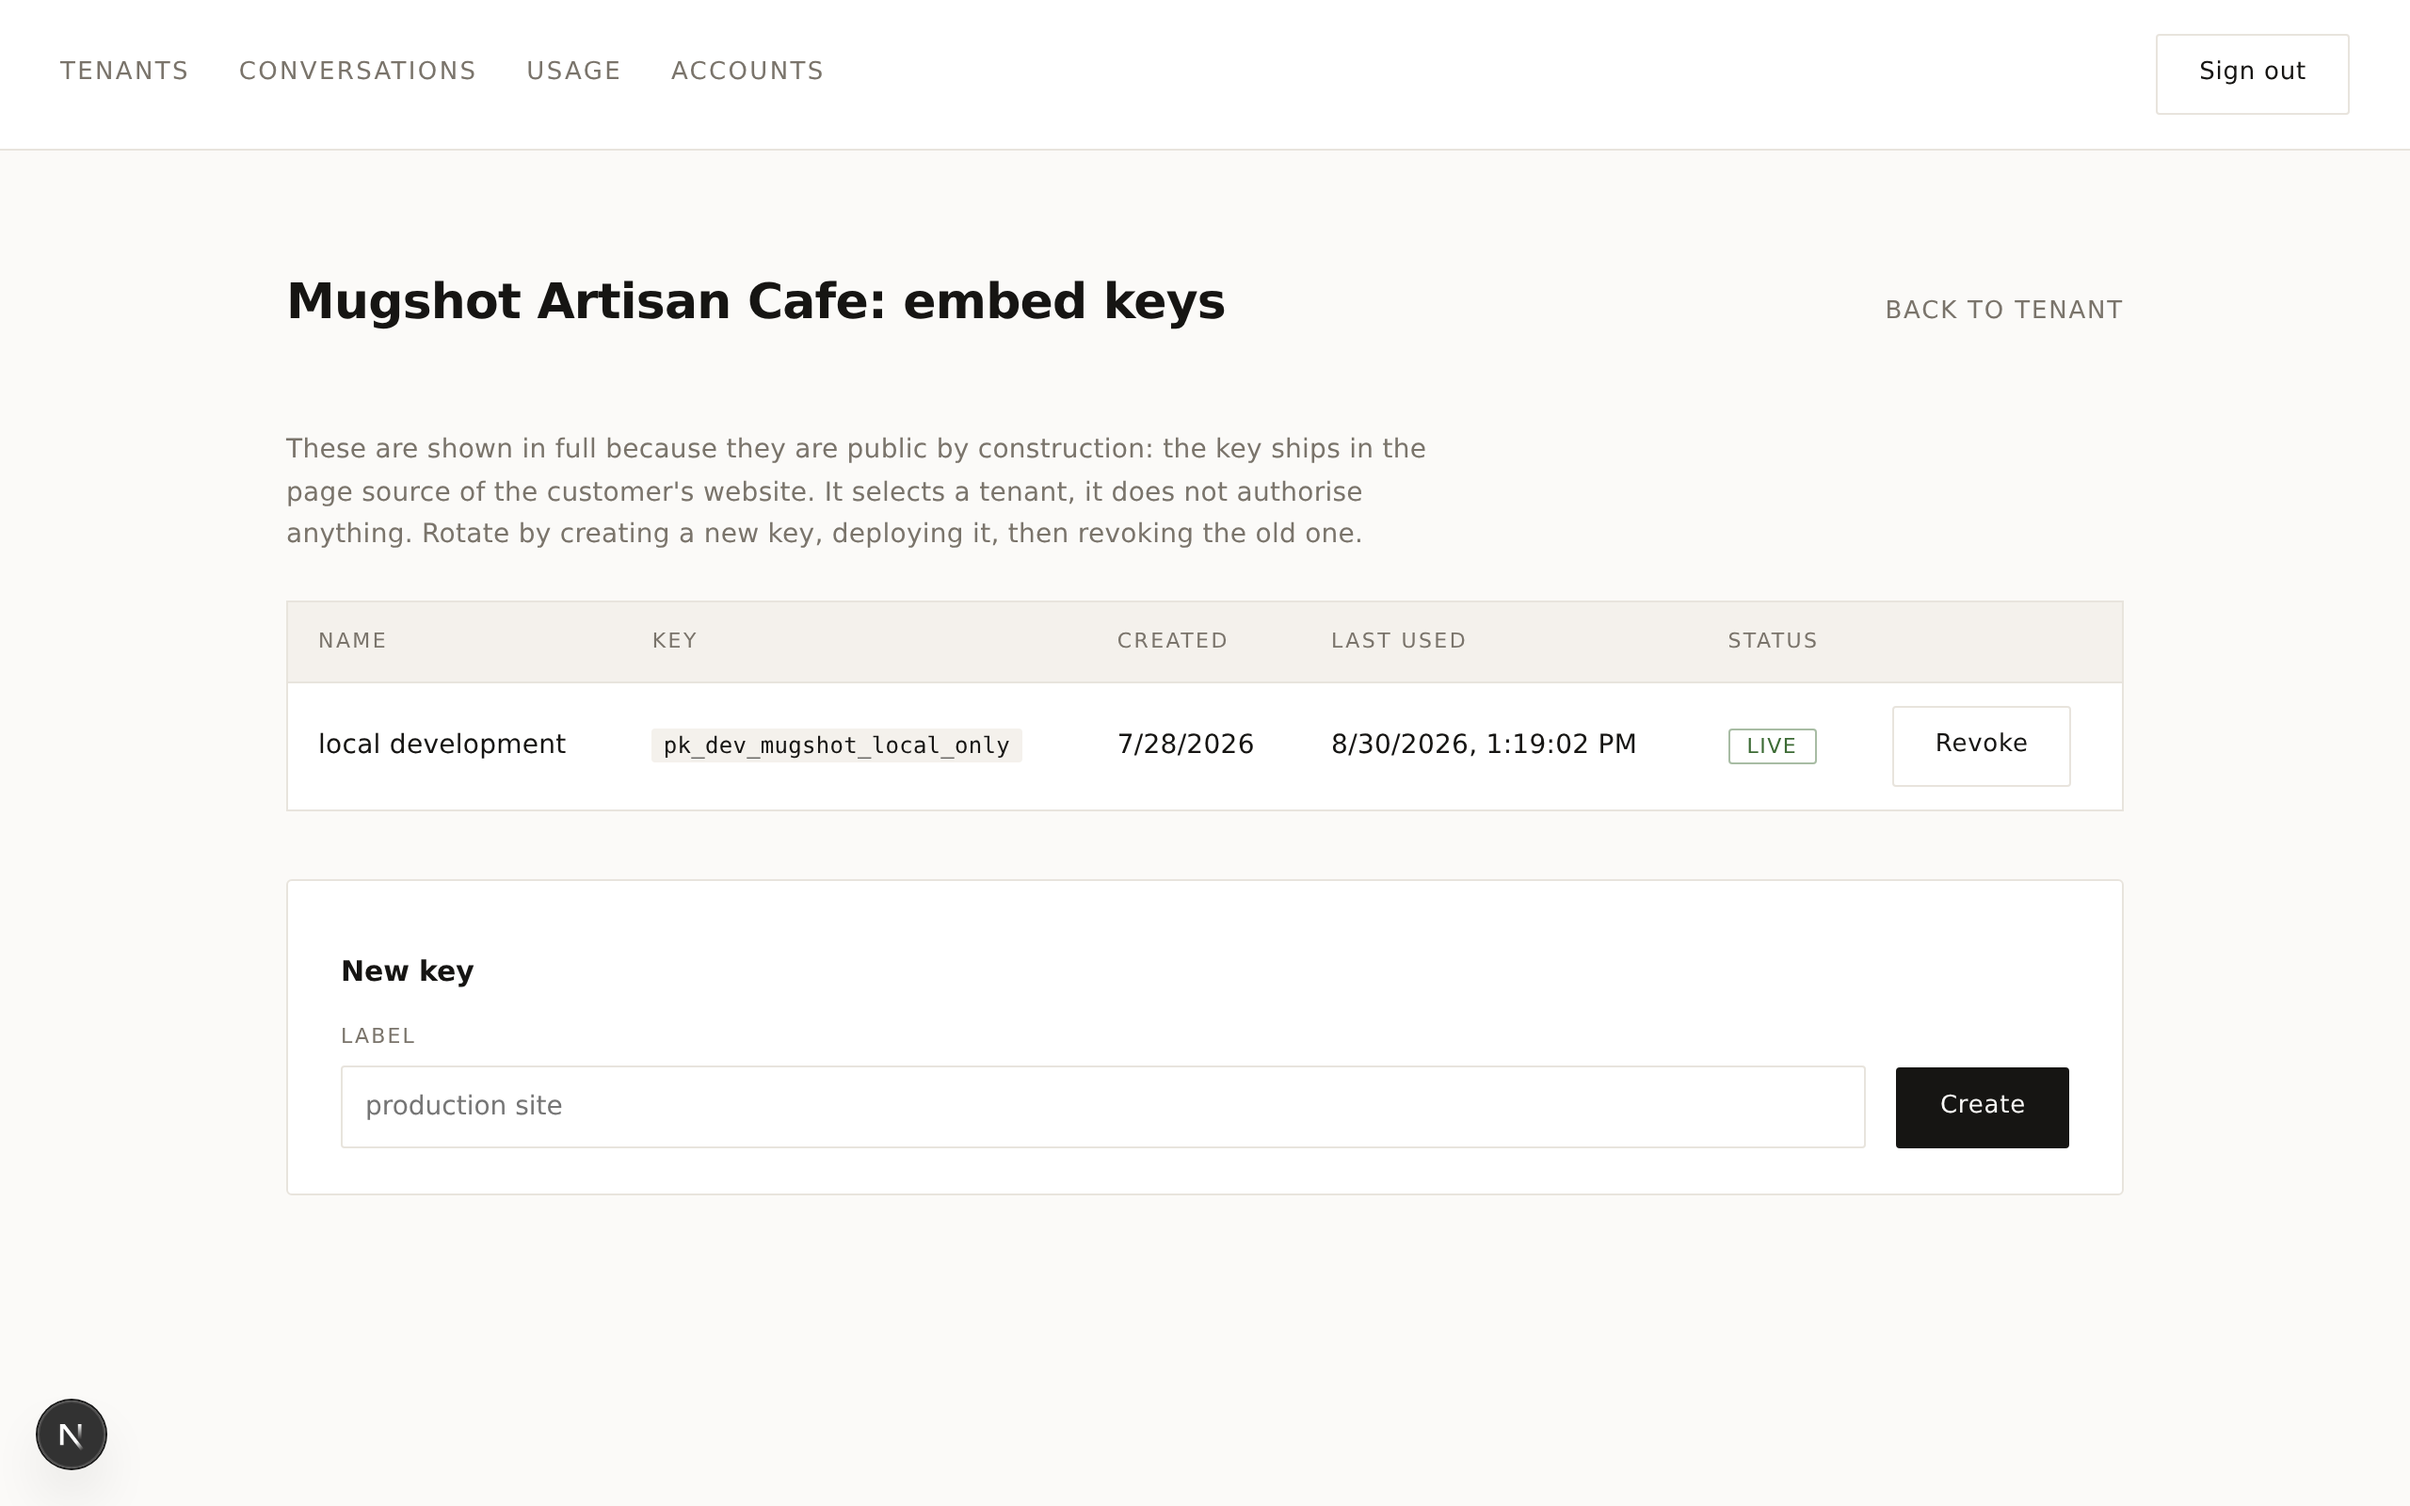
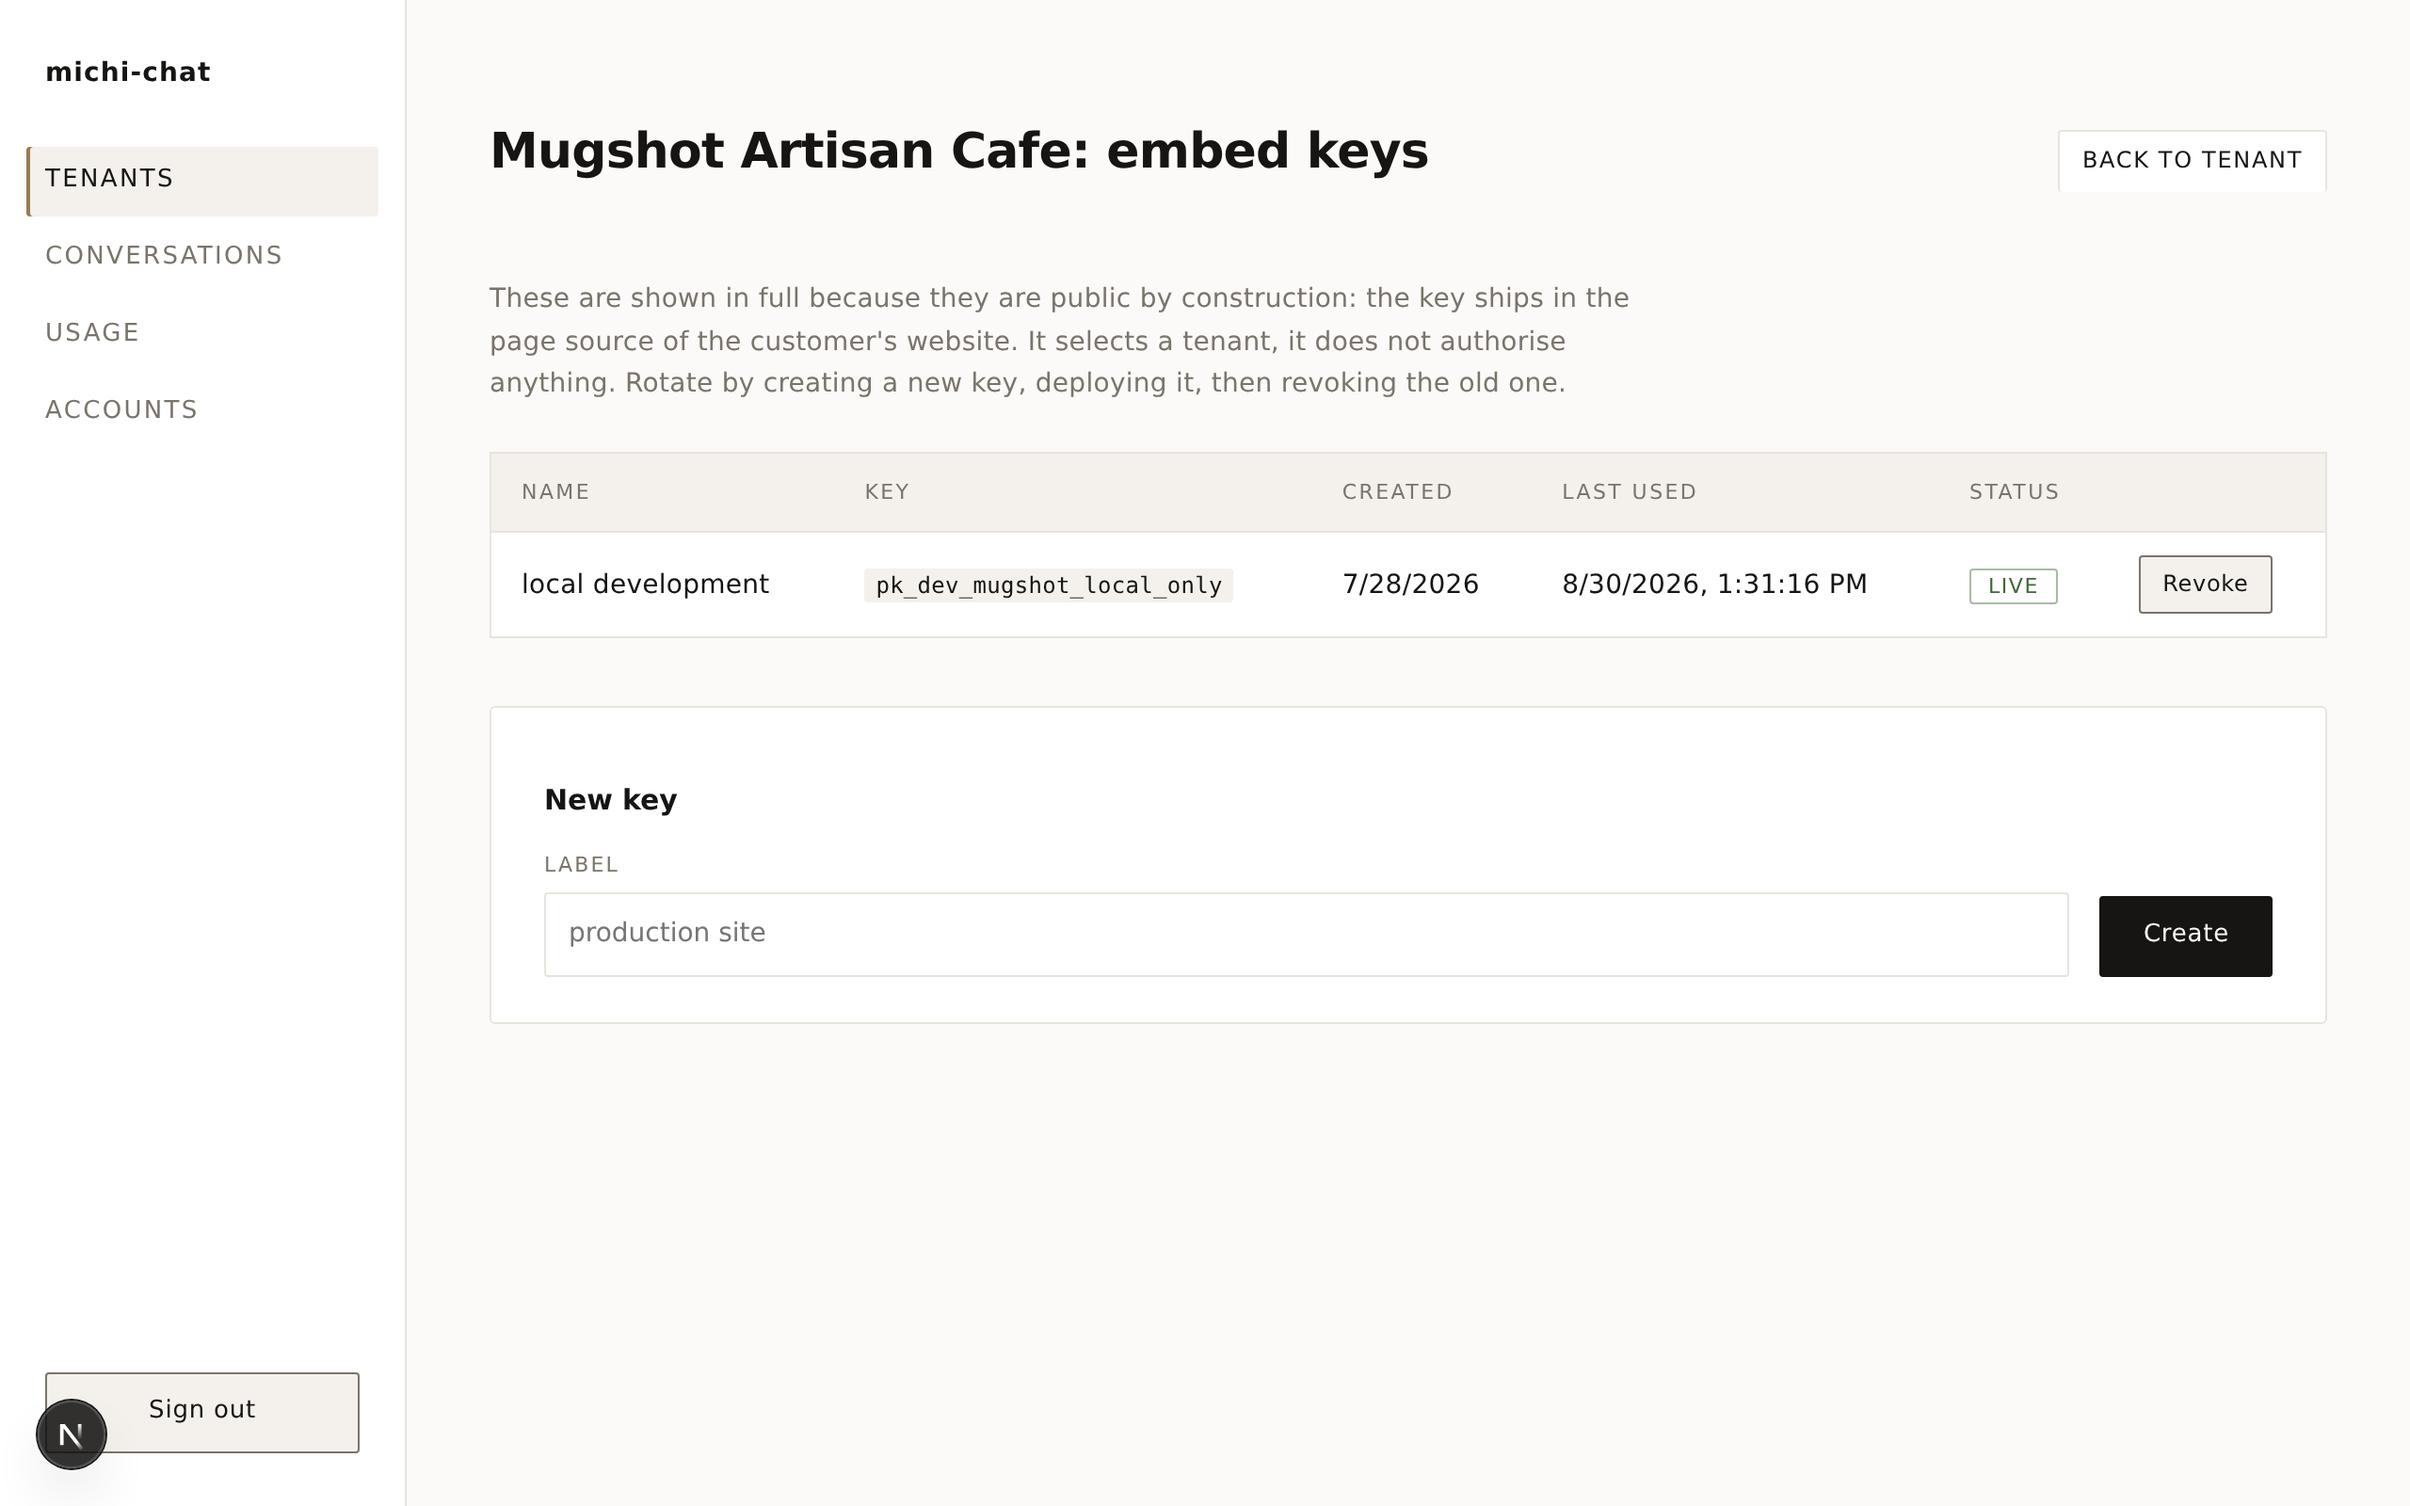
feature - admin: sidebar nav, active states, consistent affordances
Sidebar rail with highlighted current item (folds to a strip on
mobile, no JS), filter chips with an unmistakable active state,
one chip skin for row actions whether link or button, ghost buttons
visible in dark mode, kb edit anchors to the composer, facts named
in the UI, dashboard quick links per tenant.

diff --git a/src/app/admin/admin.css b/src/app/admin/admin.css
@@ -23,8 +23,8 @@
     --bg: #161514;
     --surface: #1d1c1a;
     --fg: #edeae4;
-    --muted: #98928a;
-    --line: #2e2c28;
+    --muted: #a09a91;
+    --line: #3a3731;
     --accent: #c2a077;
     --danger: #d98a84;
     --okay: #9dc18d;
@@ -32,29 +32,86 @@
   }
 }
 
-.admin-bar {
+.admin-shell {
   display: flex;
-  justify-content: space-between;
-  align-items: center;
-  gap: 16px;
-  padding: 18px 32px;
-  border-bottom: 1px solid var(--line);
-  background: var(--surface);
+  min-height: 100vh;
 }
 
-.admin-bar nav {
+.admin-side {
+  width: 216px;
+  flex: 0 0 auto;
   display: flex;
-  gap: 26px;
+  flex-direction: column;
+  gap: 28px;
+  padding: 28px 24px;
+  border-right: 1px solid var(--line);
+  background: var(--surface);
+  position: sticky;
+  top: 0;
+  height: 100vh;
 }
-.admin-bar nav a {
+.admin-logo {
+  font-size: 14px;
+  font-weight: 600;
+  letter-spacing: 0.04em;
+}
+.admin-side nav {
+  display: flex;
+  flex-direction: column;
+  gap: 4px;
+}
+.admin-side nav a {
   font-size: 13px;
   text-transform: uppercase;
   letter-spacing: 0.09em;
   color: var(--muted);
+  padding: 8px 10px;
+  margin: 0 -10px;
+  border-radius: 2px;
 }
-.admin-bar nav a:hover {
+.admin-side nav a:hover {
   color: var(--fg);
+  background: var(--soft);
   text-decoration: none;
+}
+.admin-side-foot {
+  margin-top: auto;
+}
+.admin-side-foot button {
+  width: 100%;
+}
+
+/* Small screens: the rail folds back into a horizontal strip. No JS drawer to break. */
+@media (max-width: 780px) {
+  .admin-shell {
+    flex-direction: column;
+  }
+  .admin-side {
+    width: auto;
+    height: auto;
+    position: static;
+    flex-direction: row;
+    align-items: center;
+    gap: 12px;
+    padding: 12px 16px;
+    border-right: none;
+    border-bottom: 1px solid var(--line);
+    overflow-x: auto;
+  }
+  .admin-side nav {
+    flex-direction: row;
+    gap: 2px;
+  }
+  .admin-side nav a {
+    white-space: nowrap;
+  }
+  .admin-side-foot {
+    margin-top: 0;
+    margin-left: auto;
+  }
+  .admin-side-foot button {
+    width: auto;
+  }
 }
 
 .admin a {
@@ -71,9 +128,39 @@
 }
 
 .admin-main {
+  flex: 1 1 auto;
+  min-width: 0;
   max-width: 1040px;
   margin: 0 auto;
   padding: 44px 32px 96px;
+}
+
+/* Filter chips (e.g. per-tenant on Conversations): the active one is unmistakable. */
+.filters {
+  display: flex;
+  gap: 8px;
+  flex-wrap: wrap;
+  align-items: center;
+}
+.filter {
+  font-size: 12px;
+  text-transform: uppercase;
+  letter-spacing: 0.07em;
+  color: var(--muted);
+  border: 1px solid var(--line);
+  border-radius: 2px;
+  padding: 5px 12px;
+}
+.filter:hover {
+  color: var(--fg);
+  border-color: var(--fg);
+  text-decoration: none;
+}
+.filter-active,
+.filter-active:hover {
+  background: var(--fg);
+  color: var(--bg);
+  border-color: var(--fg);
 }
 
 .head {
@@ -97,13 +184,18 @@
   flex-wrap: wrap;
 }
 .head-links a {
-  color: var(--muted);
-  font-size: 13px;
+  color: var(--fg);
+  font-size: 12px;
   text-transform: uppercase;
   letter-spacing: 0.07em;
+  border: 1px solid var(--line);
+  border-radius: 2px;
+  padding: 6px 12px;
+  background: var(--surface);
 }
 .head-links a:hover {
-  color: var(--fg);
+  border-color: var(--fg);
+  text-decoration: none;
 }
 
 .admin table {
@@ -231,12 +323,13 @@
   cursor: default;
 }
 .admin button.ghost {
-  background: transparent;
+  background: var(--soft);
   color: var(--fg);
-  border-color: var(--line);
+  border: 1px solid var(--muted);
 }
 .admin button.ghost:hover:not(:disabled) {
   border-color: var(--fg);
+  background: var(--surface);
 }
 
 .row-form {
@@ -416,4 +509,36 @@
   height: 26px;
   background: var(--accent);
   border-radius: 1px;
+}
+
+/* Row actions: links and buttons in tables share one chip skin, so "Edit" (a link) and
+   "Delete" (a form button) read as siblings, not different species. */
+.admin .row-action {
+  display: inline-block;
+  font-size: 12px;
+  letter-spacing: 0.03em;
+  border: 1px solid var(--muted);
+  background: var(--soft);
+  color: var(--fg);
+  border-radius: 2px;
+  padding: 5px 12px;
+}
+.admin .row-action:hover {
+  border-color: var(--fg);
+  background: var(--surface);
+  text-decoration: none;
+}
+.admin td button.ghost,
+.head-links button.ghost {
+  padding: 5px 12px;
+  font-size: 12px;
+}
+.admin td form {
+  display: inline;
+}
+
+.admin-side nav a.active {
+  color: var(--fg);
+  background: var(--soft);
+  box-shadow: inset 2px 0 0 var(--accent);
 }

diff --git a/src/app/admin/layout.tsx b/src/app/admin/layout.tsx
@@ -2,8 +2,8 @@
 // redirect, but it does NOT protect server actions, which run before a layout re-renders.
 // The real guard is requireAdmin() at the top of each action in ./actions.ts.
 
-import Link from "next/link";
 import { getAdminSession } from "@/lib/admin-auth";
+import { AdminNav } from "./AdminNav";
 import { logoutAction } from "./actions";
 import "./admin.css";
 
@@ -14,21 +14,19 @@ export default async function AdminLayout({ children }: { children: React.ReactN
   if (!session) return <div className="admin">{children}</div>;
 
   return (
-    <div className="admin">
-      <header className="admin-bar">
-        <nav>
-          <Link href="/admin">Tenants</Link>
-          <Link href="/admin/conversations">Conversations</Link>
-          <Link href="/admin/usage">Usage</Link>
-          {/* Hiding the link is UX; the page and its actions enforce owner themselves. */}
-          {session.role === "owner" && <Link href="/admin/users">Accounts</Link>}
-        </nav>
-        <form action={logoutAction}>
+    <div className="admin admin-shell">
+      {/* Sidebar rail on desktop; collapses to a horizontal strip on small screens
+          purely in CSS, so there is no menu JavaScript to break. */}
+      <aside className="admin-side">
+        <div className="admin-logo">michi-chat</div>
+        {/* Hiding owner links is UX; the pages and actions enforce the role themselves. */}
+        <AdminNav isOwner={session.role === "owner"} />
+        <form action={logoutAction} className="admin-side-foot">
           <button type="submit" className="ghost">
             Sign out
           </button>
         </form>
-      </header>
+      </aside>
       <main className="admin-main">{children}</main>
     </div>
   );

diff --git a/src/app/admin/AdminNav.tsx b/src/app/admin/AdminNav.tsx
@@ -1,0 +1,30 @@
+"use client";
+
+import Link from "next/link";
+import { usePathname } from "next/navigation";
+
+const ITEMS = [
+  { href: "/admin", label: "Tenants", exact: true },
+  { href: "/admin/conversations", label: "Conversations" },
+  { href: "/admin/usage", label: "Usage" },
+  { href: "/admin/users", label: "Accounts", ownerOnly: true },
+];
+
+export function AdminNav({ isOwner }: { isOwner: boolean }) {
+  const pathname = usePathname();
+  return (
+    <nav>
+      {ITEMS.filter((item) => !item.ownerOnly || isOwner).map((item) => {
+        // "Tenants" also owns the tenant editor pages, which live under /admin/tenants/.
+        const active = item.exact
+          ? pathname === "/admin" || pathname.startsWith("/admin/tenants")
+          : pathname.startsWith(item.href);
+        return (
+          <Link key={item.href} href={item.href} className={active ? "active" : undefined}>
+            {item.label}
+          </Link>
+        );
+      })}
+    </nav>
+  );
+}

diff --git a/src/app/admin/tenants/[id]/TenantForm.tsx b/src/app/admin/tenants/[id]/TenantForm.tsx
@@ -148,8 +148,9 @@ export function TenantForm({
       <fieldset>
         <legend>Tools</legend>
         <small>
-          Tools are code packs. A tenant enables one and fills in its parameters; the URL is
-          always built by the platform, never supplied here in full.
+          Tools are code packs from the platform catalog. Enable what fits this business and
+          leave the rest off; packs built for another site's API simply don't apply. URLs
+          are always validated by the platform, never free-form.
         </small>
         {packs.map((pack) => {
           const config = (toolConfig[pack.id] ?? {}) as Record<string, unknown>;

diff --git a/src/app/admin/tenants/[id]/page.tsx b/src/app/admin/tenants/[id]/page.tsx
@@ -28,7 +28,7 @@ export default async function TenantEditor({ params }: { params: Promise<{ id: s
         <h1>{tenant.name}</h1>
         <div className="head-links">
           <Link href={`/admin/tenants/${tenant.id}/keys`}>Embed keys</Link>
-          <Link href={`/admin/tenants/${tenant.id}/kb`}>Knowledge base</Link>
+          <Link href={`/admin/tenants/${tenant.id}/kb`}>Facts &amp; knowledge</Link>
           <Link href={`/admin/tenants/${tenant.id}/analytics`}>Analytics</Link>
           <Link href={`/t/${tenant.slug}`} target="_blank">
             Open chat
